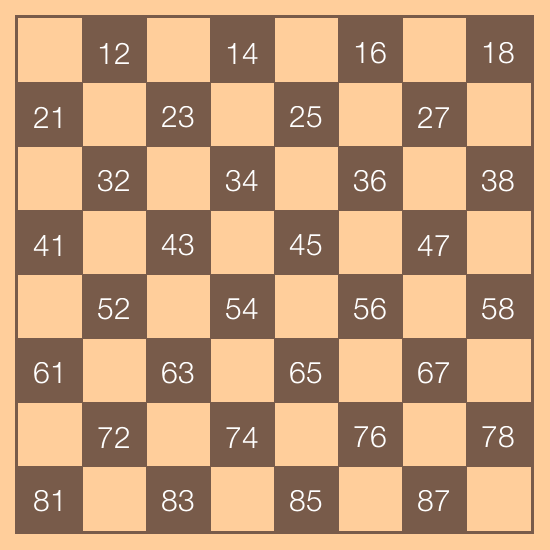
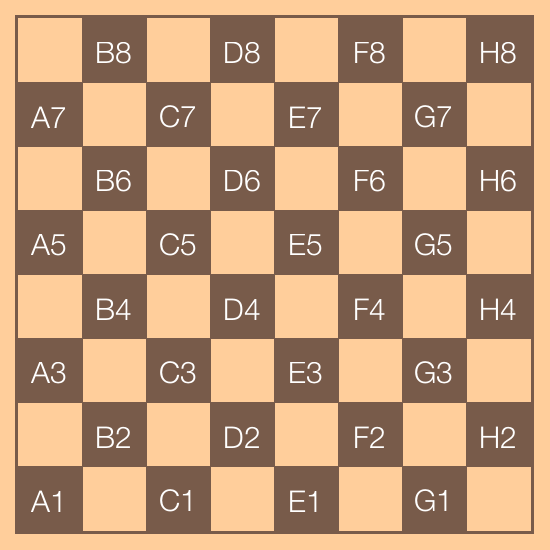
solved problem with no dump, changed digits to letters in image

diff --git a/checkers.py b/checkers.py
@@ -2,6 +2,7 @@ import copy
 import random
 from collections import namedtuple
 from PIL import Image, ImageDraw, ImageFont
+from board_image_generator import draw_blank_board, to_str, to_str_format
 from draw_config import margin, sf_font, red_color, edge_color, \
     white_draught_color, black_draught_color
 
@@ -166,6 +167,7 @@ class Board:
 
 class Painter:
     def __init__(self):
+        draw_blank_board()
         self._blank = Image.open('blank.png')
 
     def draw(self, board):
@@ -205,7 +207,7 @@ class Painter:
                        fill=main_color, outline=other_color)
 
         font = ImageFont.truetype(*sf_font)
-        text = str((col + 1) * 10 + row + 1)
+        text = to_str_format(row, col)
         canvas.text(self._text_place(row, col, text, font), text,
                     font=font, fill=font_color)
 
@@ -334,17 +336,21 @@ class Game:
         else:
             res = moves[self.chosen_checker]
 
-        return [str(elem) for elem in list(res)]
+        return [to_str(elem) for elem in list(res)]
 
-    def external_session(self, number):
-        if number not in self.button_variants():
+    def external_session(self, ans):
+        if ans not in self.button_variants():
             return (-1 if self.chosen_checker == -1 else -2), []
 
         if self.chosen_checker == -1:
-            self.chosen_checker = int(number)
+            self.chosen_checker = self._to_pos(ans)
             return 2, []
         else:
-            return self.move_session(self.chosen_checker, int(number))
+            return self.move_session(self.chosen_checker, self._to_pos(ans))
+
+    @staticmethod
+    def _to_pos(ans):
+        return (9 - int(ans[1])) * 10 + (ord(ans[0]) - ord('A') + 1)
 
     def move_session(self, pos, target):  #
         """Returns -3 if you lose, 1 if choose checker, 2 if choose cell, 
@@ -379,42 +385,3 @@ class Game:
             return 1, moves_done
         else:
             return -3, moves_done
-
-
-def main():
-    message = {
-        -2: 'You lose :(', -1: 'Wrong move!', 0: 'You have to capture!',
-        1: 'Your turn!', 2: 'You win!'
-    }
-
-    print('Would you like to play white? y/n : ', end='')
-    test_board = Game(enemy_white=(input() == 'y'))
-
-    image = Image.open('tmp.png')
-    image.show()
-
-    res = 1
-    print(message[res])
-
-    while True:
-        inp = input().split()
-        try:
-            inp_pos, inp_target = int(inp[0]), int(inp[1])
-        except:
-            print(message[res])
-            continue
-
-        res, moves_done = test_board.move_session(inp_pos, inp_target)
-
-        image = Image.open('tmp.png')
-        image.show()
-
-        print(*moves_done)
-        print(message[res])
-
-        if res in (-2, 2):
-            break
-
-
-if __name__ == '__main__':
-    main()

diff --git a/board_image_generator.py b/board_image_generator.py
@@ -2,6 +2,14 @@ from PIL import Image, ImageDraw, ImageFont
 from draw_config import margin, white_cell_color, black_cell_color, sf_font
 
 
+def to_str(checker):
+    return to_str_format(checker % 10 - 1, checker // 10 - 1)
+
+
+def to_str_format(row, col):
+    return chr(ord('A') + row) + str(8 - col)
+
+
 def square_place(up_left, down_right):
     return (margin - up_left, margin - up_left,
             margin + down_right, margin + down_right)
@@ -19,22 +27,28 @@ def text_place(row, col, text, font):
             margin + col * 64 + (64 - height) // 2 - 1)
 
 
-image = Image.new('RGB', (550, 550), white_cell_color)
-canvas = ImageDraw.Draw(image)
+def draw_blank_board():
+    image = Image.new('RGB', (550, 550), white_cell_color)
+    canvas = ImageDraw.Draw(image)
 
-canvas.rectangle(square_place(3, 515), fill=black_cell_color)
-canvas.rectangle(square_place(0, 512), fill=white_cell_color)
+    canvas.rectangle(square_place(3, 515), fill=black_cell_color)
+    canvas.rectangle(square_place(0, 512), fill=white_cell_color)
 
-font = ImageFont.truetype(*sf_font)
+    font = ImageFont.truetype(*sf_font)
 
-for row in range(8):
-    for col in range(8):
-        if (row + col) % 2 == 1:
-            canvas.rectangle(cell_place(row, col),
-                             fill=black_cell_color, outline=black_cell_color)
+    for row in range(8):
+        for col in range(8):
+            if (row + col) % 2 == 1:
+                canvas.rectangle(cell_place(row, col),
+                                 fill=black_cell_color,
+                                 outline=black_cell_color)
 
-            text = str((col + 1) * 10 + row + 1)
-            canvas.text(text_place(row, col, text, font), text,
-                        font=font, fill='white')
+                text = to_str_format(row, col)
+                canvas.text(text_place(row, col, text, font), text,
+                            font=font, fill='white')
 
-image.save(fp='blank.png')
+    image.save(fp='blank.png')
+
+
+if __name__ == '__main__':
+    draw_blank_board()

diff --git a/bot.py b/bot.py
@@ -1,8 +1,10 @@
 import telebot
 import _thread
 import pickle
+import os
 from bot_config import TOKEN
 from checkers import Game
+from board_image_generator import to_str
 
 bot = telebot.TeleBot(TOKEN, threaded=False)
 sessions = {}
@@ -31,8 +33,8 @@ def bot_reply(moves_done):
     else:
         reply = "Bot moves: "
 
-    for move in moves_done:
-        reply += str(move) + ', '
+    for pos, target in moves_done:
+        reply += '(' + to_str(pos) + ', ' + to_str(target) + '), '
 
     return reply[:-2] + '\n'
 
@@ -102,7 +104,7 @@ def create_game_object(message):
                    reply_markup=make_markup(sessions[message.chat.id]))
 
 
-@bot.message_handler(regexp='[1-8][1-8]')
+@bot.message_handler(regexp='[A-H][1-8]')
 def move_handle(message):
     global sessions
     if message.chat.id not in sessions:
@@ -162,16 +164,13 @@ def reply_all_text(message):
     bot.send_message(message.chat.id, "Wrong command!")
 
 
-@bot.message_handler(func=lambda message: True)
-def reply_all(message):
-    print('lol')
-    bot.send_message(message.chat.id, "You can send only text!")
-
-
 def main():
     global sessions
-    with open('dump.pickle', 'rb') as f:
-        sessions = pickle.load(f)
+    if not os.path.isfile('dump.pickle'):
+        sessions = {}
+    else:
+        with open('dump.pickle', 'rb') as f:
+            sessions = pickle.load(f)
 
     _thread.start_new_thread(console_talker, ())
 
